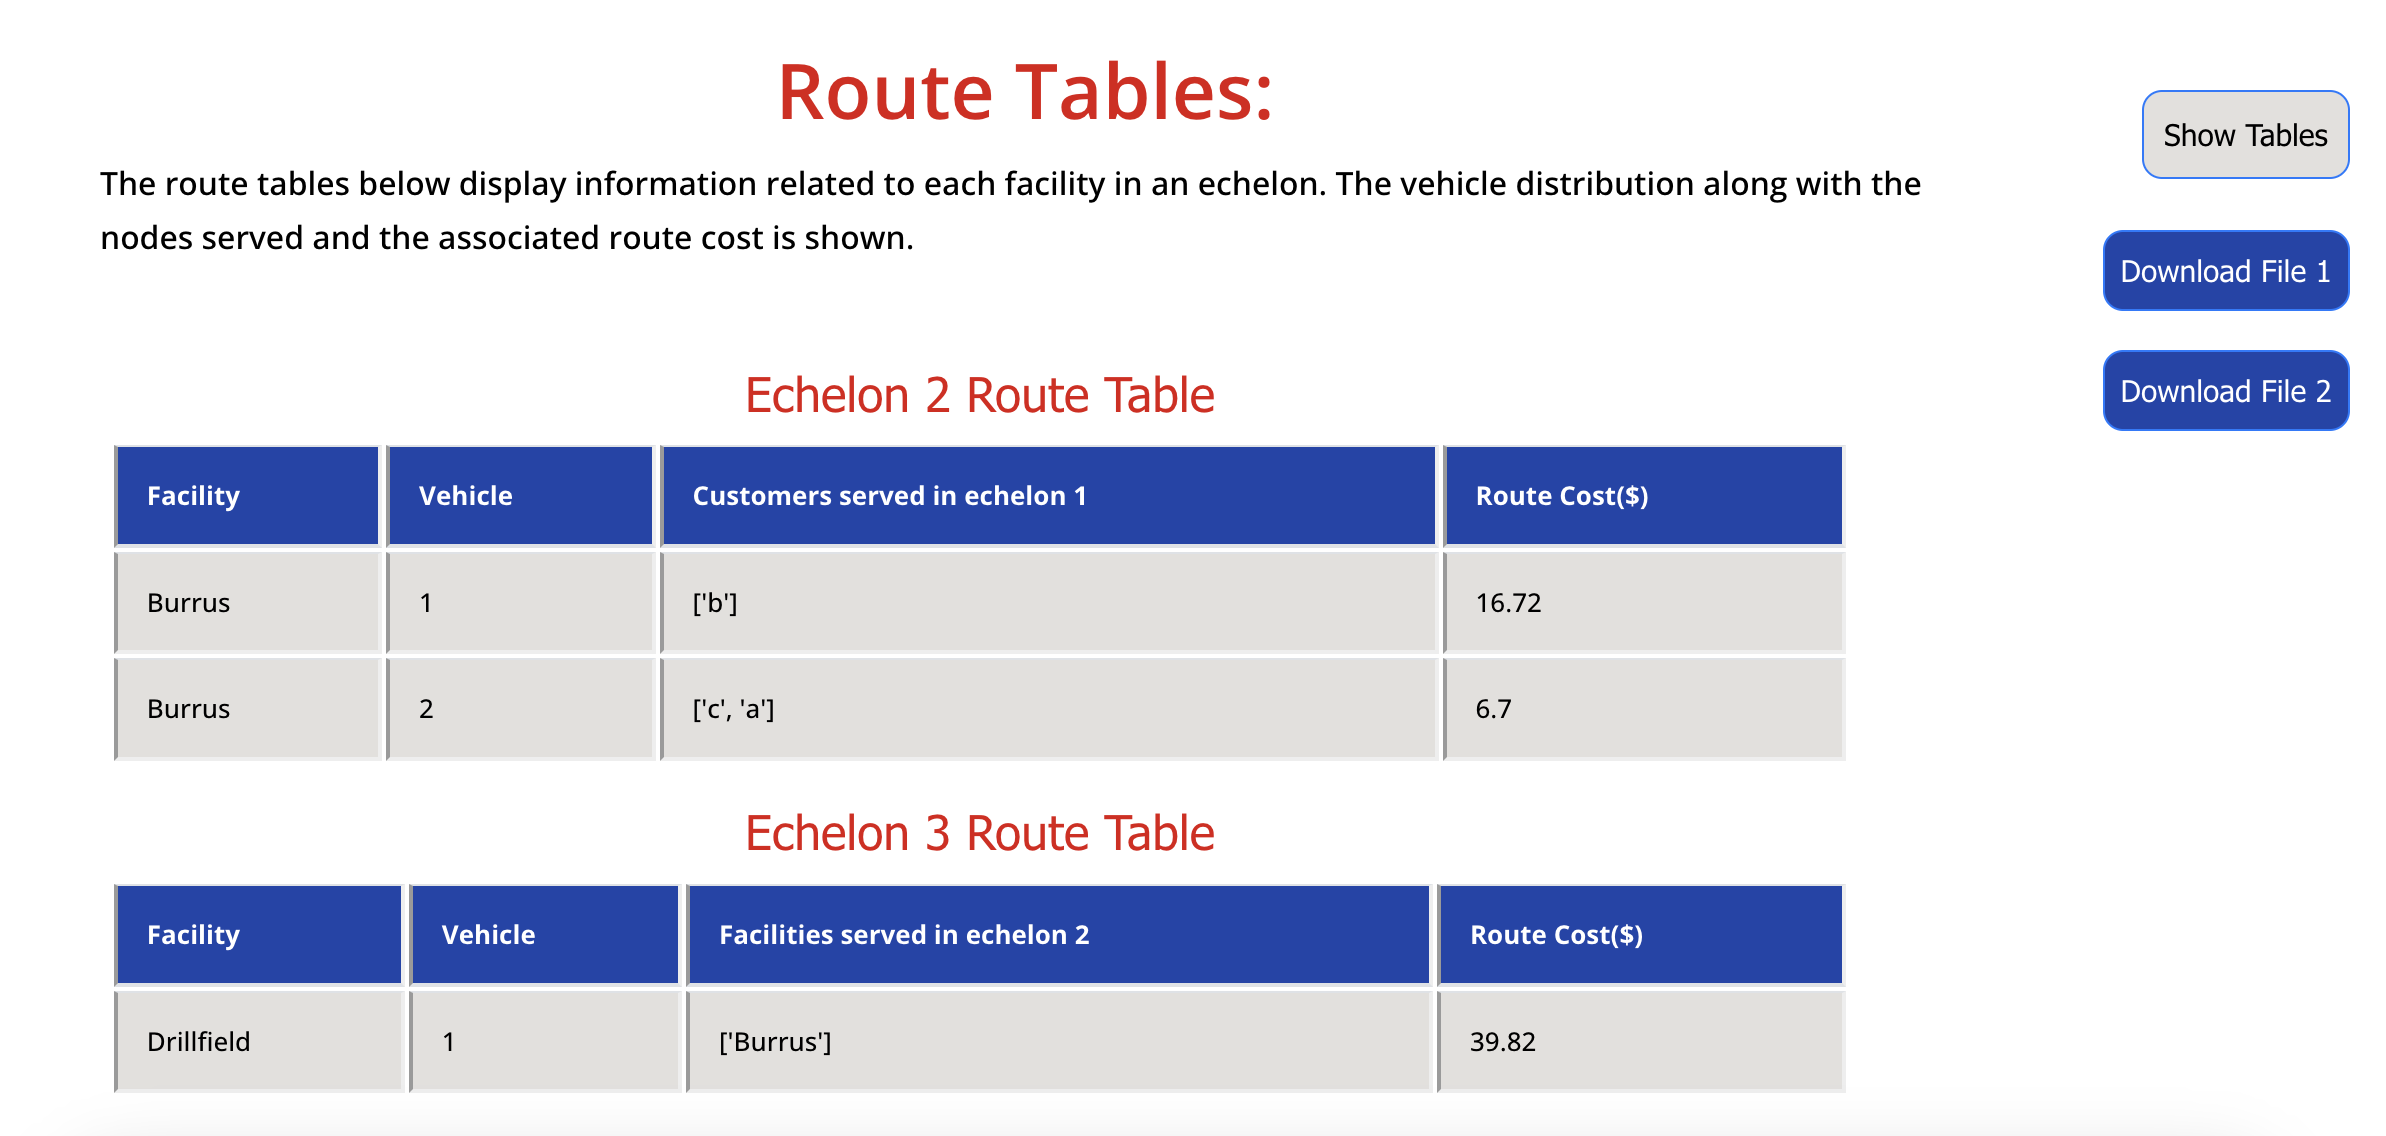
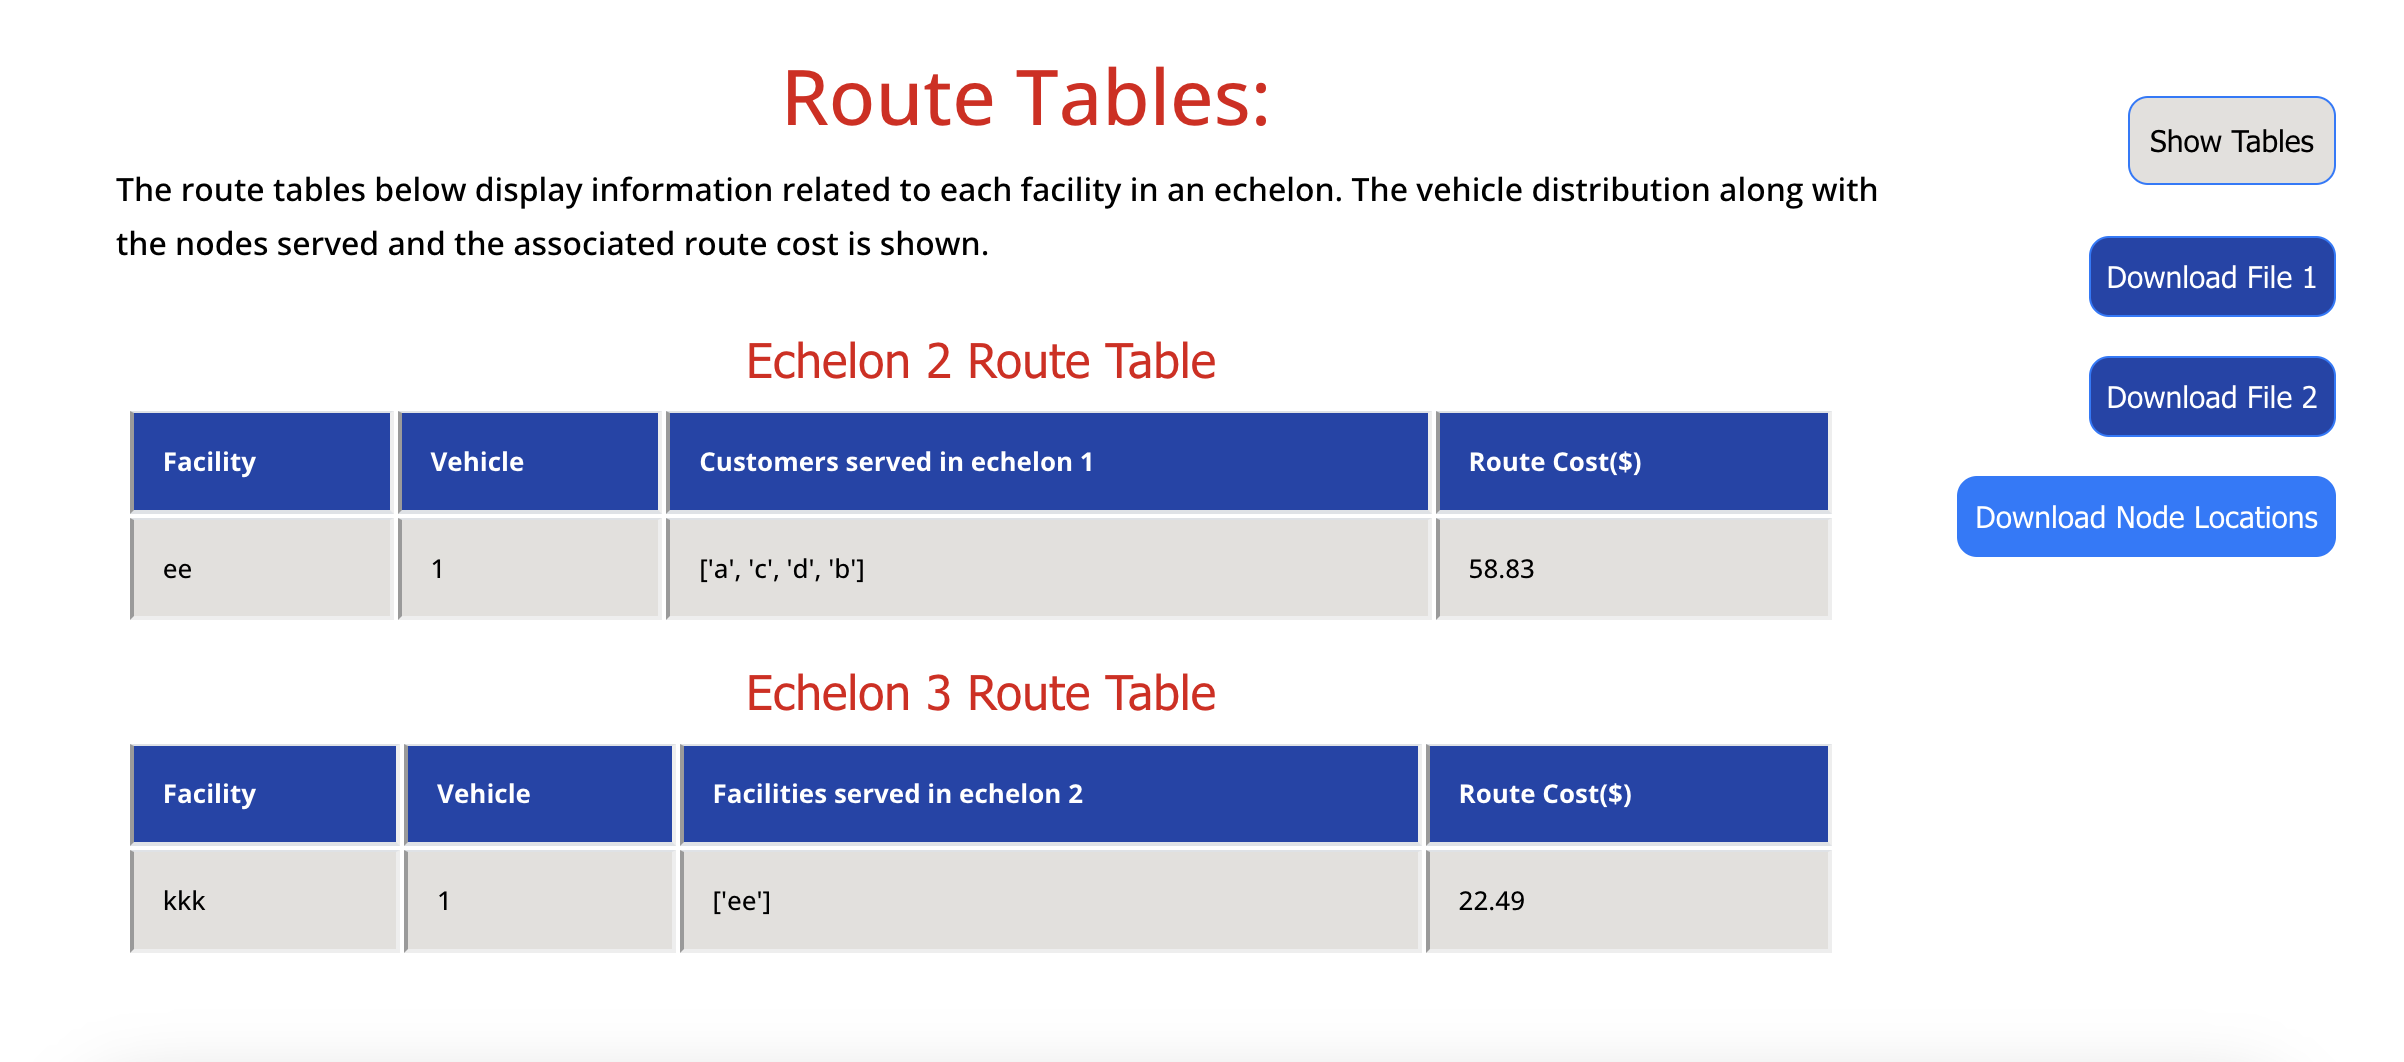
added node locations download feature

diff --git a/vite-project/src/RouteTable.jsx b/vite-project/src/RouteTable.jsx
@@ -12,21 +12,25 @@ function RouteTable() {
 
     const [summaryData_1, setData_1] = useState([])
     const [summaryData_2, setData_2] = useState([])
-    //console.log(summaryData)
+    const [nodeData, setNodeData] = useState([])
 
     function showTable(){
         console.log("In showTable()")
+        
         let tableData = async () => {
             const table_data = await APIService.getRouteTables()
+            
             await new Promise(r => setTimeout(r, 200));
+            //console.log(table_data);
             setData_1(table_data[0])
             setData_2(table_data[1])
-            console.log(table_data);
+            setNodeData(table_data[2])
+            
         }
         let td = tableData();
     }
 
-    const downloadTxtFile1= () => {
+    const downloadCSVFile1= () => {
 
     // file object
         const file = new Blob([summaryData_1], {type: 'text/csv'});
@@ -41,7 +45,7 @@ function RouteTable() {
         element.click();
     }
 
-    const downloadTxtFile2 = () => {
+    const downloadCSVFile2 = () => {
 
         // file object
             const file = new Blob([summaryData_2], {type: 'text/csv'});
@@ -50,6 +54,21 @@ function RouteTable() {
             const element = document.createElement("a");
             element.href = URL.createObjectURL(file);
             element.download = "Route Summary Table 2" + ".csv";
+        
+        // simulate link click
+            document.body.appendChild(element); // Required for this to work in FireFox
+            element.click();
+        }
+
+    const downloadCSVFile3 = () => {
+
+        // file object
+            const file = new Blob([nodeData], {type: 'text/csv'});
+    
+        // anchor link
+            const element = document.createElement("a");
+            element.href = URL.createObjectURL(file);
+            element.download = "Node Locations" + ".csv";
         
         // simulate link click
             document.body.appendChild(element); // Required for this to work in FireFox
@@ -69,9 +88,10 @@ function RouteTable() {
 
             </div>
            
+        
             <Button size='sm' className='submitTableButton' onClick={showTable}>Show Tables</Button>
             {summaryData_1.length>0?<div className="csv-container">
-                
+            
                <span>
                 <h5 className="table-heading">Echelon 2 Route Table</h5>
                 <CsvToHtmlTable
@@ -94,10 +114,11 @@ function RouteTable() {
             
       
 
-            <div >
-                <Button  size='sm' className="downloadButton1" onClick={downloadTxtFile1} value="download">Download File 1</Button>
-            </div>
-            <Button  size='sm' className="downloadButton2" onClick={downloadTxtFile2} value="download">Download File 2</Button>
+            
+            <Button size='sm' className="downloadButton1" onClick={downloadCSVFile1} value="download">Download File 1</Button>
+            <Button size='sm' className="downloadButton2" onClick={downloadCSVFile2} value="download">Download File 2</Button>
+            <Button size='sm' className="downloadButton3" onClick={downloadCSVFile3} value="download">Download Node Locations</Button>        
+            
             </div>
             :<></>}
             <div>

diff --git a/vite-project/src/Guidelines.jsx b/vite-project/src/Guidelines.jsx
@@ -89,13 +89,13 @@ The steps to be followed for using the system are as follows:
                 </ul>	
                 <img src={popups} style={imgStyles1}></img>
                 <li>For a tabular representation of the routes, click on the <b>Route Tables</b> link in the <b>Output</b> dropdown menu. 
-                After clicking on the <b>Show Tables</b> button, two tables will be displayed on the page, one table each per echelon level. In addition, click on the download buttons to download the respective CSV route file to your local machine.</li>
+                After clicking on the <b>Show Tables</b> button, two tables will be displayed on the page, one table each per echelon level. In addition, click on the download File 1 and File 2 buttons to download the respective CSV route file to the local machine. Node coordinates can be downloaded by clicking the <b>Download Node Locations</b> button.</li>
                 <img src={routeTables} style={imgStyles2}></img>    
-                <li>For a summary representation, click on the <b>Summary Tables</b> link in the <b>Output</b> dropdown menu. After clicking on the <b>Show Tables</b> button, two tables will be displayed on the page, one echelon level and one facility level summary table. In addition, click on the download buttons to download the respective CSV route file to your local machine.</li>
+                <li>For a summary representation, click on the <b>Summary Tables</b> link in the <b>Output</b> dropdown menu. After clicking on the <b>Show Tables</b> button, two tables will be displayed on the page, one echelon level and one facility level summary table. In addition, click on the download buttons to download the respective CSV route file to the local machine.</li>
                 <img src={summaryTables} style={imgStyles2}></img>    
         </ol>
     </div>
-    
+
     </div>
 
     )

diff --git a/vite-project/src/RouteTables.css b/vite-project/src/RouteTables.css
@@ -82,7 +82,7 @@
 
 .csv-container{
     /* display: flex; */
-    margin: 50px 250px 50px 60px;
+    margin: 30px 250px 50px 60px;
     font-size: 14px;
 }
 
@@ -117,10 +117,23 @@ th{
 .btn:focus,.btn:active {
     outline: none !important;
     box-shadow: none;
- }
+}
 
- table{
+table{
    
     font-family: OpenSans;
     border-collapse:separate
- }
+}
+
+.downloadButton3{
+    position: absolute;
+    top: 310px;
+    right: 50px;
+    padding: 8px;
+    border-radius: 10px;
+    font-size: 15px;
+    /* background-color: rgb(26, 69, 171); */
+    color: white;
+    font-weight: 500;
+}
+ 

diff --git a/swm_backend/app.py b/swm_backend/app.py
@@ -1,9 +1,7 @@
-from flask import Flask, request, send_file
-from io import BytesIO
+from flask import Flask, request
 from flask_cors import CORS, cross_origin
 import json
 import gurobi as gc
-import csv
 import csv_convert 
 
 app = Flask(__name__)
@@ -20,13 +18,13 @@ def receive_data():
     try:
         with open("route_data.py", "w") as json_file:
            json.dump(locations, json_file)
-        print("test")    
+        #print("test")    
             
     except:
         print("Error while writing to file")
     
     finally:
-        print("Finally Block")
+        pass
 
     gc.main()
     csv_convert.main()
@@ -39,13 +37,14 @@ def send_data():
     try:
         with open("data_file.json", "r") as data:
             route_data = json.load(data)
-        print("get_data called")
+        #print("get_data called")
         return route_data
     except Exception as err:
         print(err)
         return {"failure":'0'}
     finally:
-        print("IN final block of get_data")
+        #print("IN final block of get_data")
+        pass
         #Can delete delete data_file.json in future
 
 @app.route("/get_route_tables", methods=["GET"], strict_slashes=False)
@@ -55,17 +54,19 @@ def send_route_tables():
 
     file_1 = open('output_final1.csv', 'r')
     file_2 = open('output_final2.csv', 'r')
+    file_3 = open('node_locations.csv', 'r')
     try:
         print("Sending route table data")
         data1 = file_1.read()
         data2 = file_2.read()
-        return [data1, data2]
+        data3 = file_3.read()
+        return [data1, data2, data3]
     
     except Exception as err:
         print("Error!!", err)
         return {"errorcode":1}
     finally:
-        print("IN final block of get_route_tables")
+        pass
         #Can delete delete data_file.json in future
 
 @app.route("/get_summary_tables", methods=["GET"], strict_slashes=False)
@@ -75,6 +76,7 @@ def send_summary_tables():
 
     file_1 = open('echelon_output.csv', 'r')
     file_2 = open('facility_output.csv', 'r')
+   
     try:
         print("Sending summary table data")
         data1 = file_1.read()
@@ -85,7 +87,7 @@ def send_summary_tables():
         print("Error!!", err)
         return {"errorcode":1}
     finally:
-        print("IN final block of get_summary_tables")
+        pass
         #Can delete delete data_file.json in future
     
 

diff --git a/swm_backend/gurobi.py b/swm_backend/gurobi.py
@@ -341,6 +341,43 @@ def main():
         x_bar={}
         for (i,n,k,t) in comb_N:
             x_bar[i,n,k,t]=x[i,n,k,t].X
+            
+            
+            
+        ###############Lat Long###################
+        lt = [i for i in data_f]
+        
+        lat_long=[]
+        for i in lt:
+            lat_long.append({
+                ("Echelon"): i["echelon"],
+                ("Node name"): i["node_label"],
+                ("Latitude"): i["lat"],
+                ("Longitude"): i["lng"]
+            })
+            
+                ############Writing to CSV###############
+        data_file = open('node_locations.csv', 'w', newline='')
+    
+        # create the csv writer object
+        csv_writer = csv.writer(data_file)
+        
+        # Counter variable used for writing
+        # headers to the CSV file
+        count = 0
+        
+        for emp in lat_long:
+            if count == 0:
+        
+                # Writing headers of CSV file
+                header = emp.keys()
+                csv_writer.writerow(header)
+                count += 1
+        
+            # Writing data of CSV file
+            csv_writer.writerow(emp.values())
+        
+        data_file.close()
         
         ###############Comprehensive Output################################    
         
